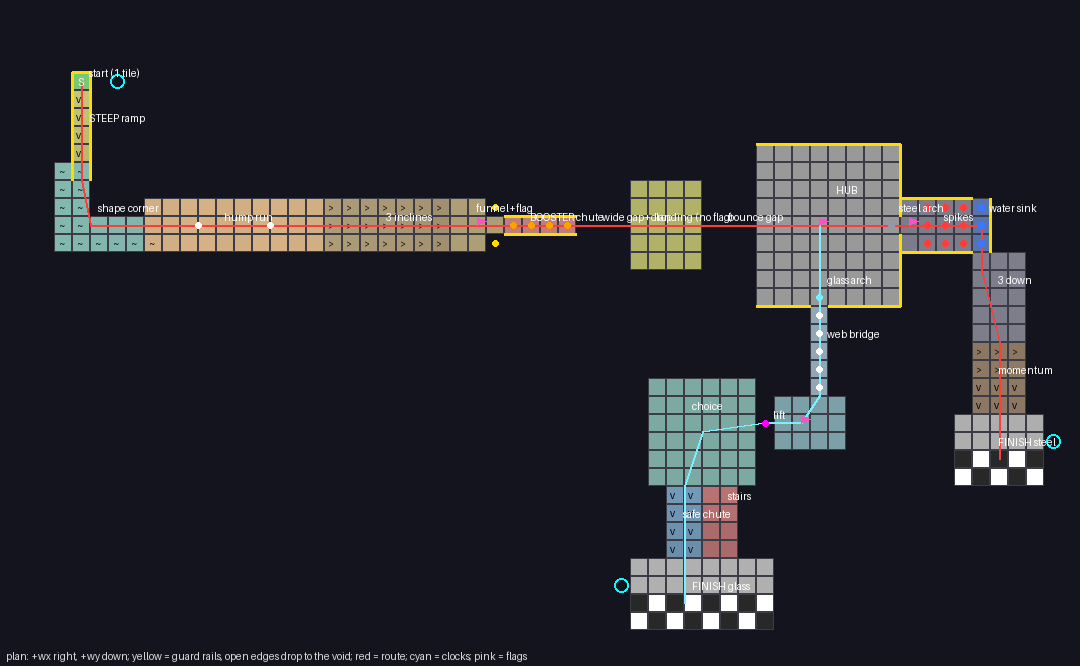
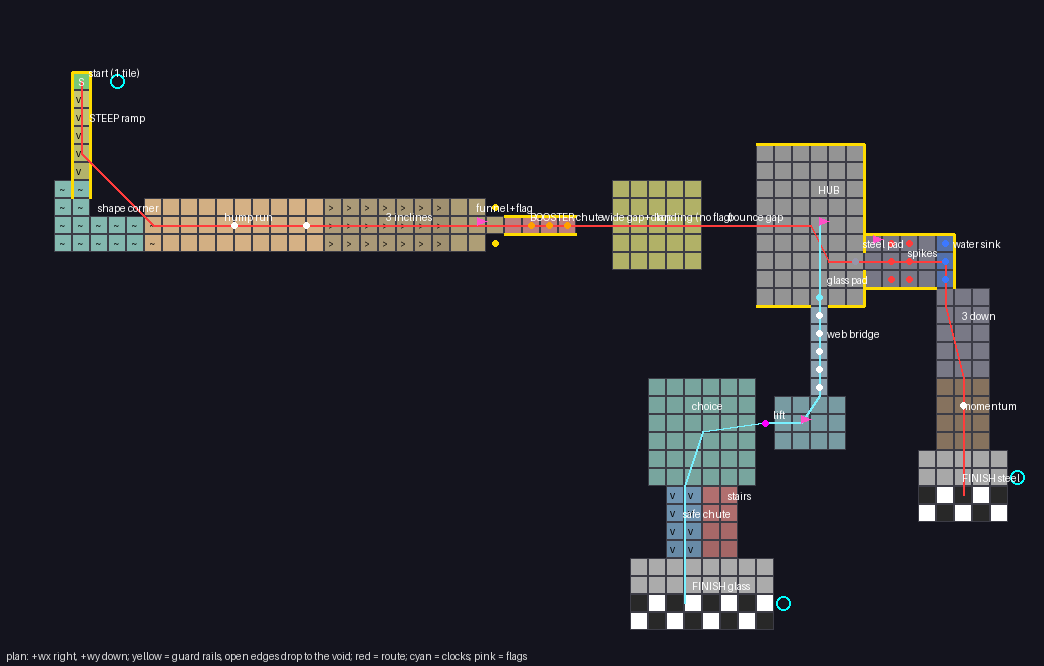
Bonanza DOWN: the autopilot finishes (22 s) - ramp foot, hub and legs 2 units lower, the steel exit off the arrival line with two pads, an 8 px momentum hump, the glass finish's clock in view
Claude-Session: https://claude.ai/code/session_01Wo8a4suEiDfFPFBsnHYKF3

Changed region(s): [[0.0307, 0.0901, 0.9808, 0.961], [0.0, 0.961, 0.4904, 0.991]]

diff --git a/docs/plans/bonanza-courses/down/sketch.py b/docs/plans/bonanza-courses/down/sketch.py
@@ -120,7 +120,8 @@ def mark(x, y, kind, text=""):
 floor("A", 4, 4, 5, 5, Z)                                    # the start: ONE tile, guard rails round it
 rail(4, 4, 5, 4, "guard"); rail(4, 4, 4, 5); rail(5, 4, 5, 5)        # (the sides block rails: a guard may not touch the ramp)
 ramp("R", "y", 4, 5, 5, 10, Z, Z - 10)                       # a STEEP ramp, 2 units a tile (the most), railed
-rail(4, 5, 4, 10); rail(5, 5, 5, 10)
+floor("R", 4, 10, 5, 11, Z - 10)                             # its foot, flat, into the corner chute
+rail(4, 5, 4, 11); rail(5, 5, 5, 11)
 chute("C", [(4, 11, Z - 10), (4, 13, Z - 10), (8, 13, Z - 11)], 1.0)   # the CORNER: a banked shape turns it +x
 floor("H", 8, 11, 18, 14, Z - 11)                            # the HUMP RUN, now 3 wide (rev 2), unguarded, along +x
 for hx in (12, 16):                                          # two humps, 2 long x 3 wide (clear of the corner)
@@ -141,41 +142,41 @@ for x in range(29, 32):
 floor("L", 34, 10, 39, 15, Z - 23)                           # a WIDE GAP (x 32 - 33) and a DROP onto L: easy,
                                                              # unguarded, NO FLAG (a respawn there could never
                                                              # cross on); rubber BOUNCES on over a second gap
-floor("X", 42, 8, 48, 17, Z - 24)                            # the HUB, large and safe (x 39 - 41 the gap; 6 wide: the width)
-rail(42, 8, 48, 8); rail(48, 8, 48, 12); rail(48, 13, 48, 17); rail(42, 17, 45, 17); rail(46, 17, 48, 17)
+floor("X", 42, 8, 48, 17, Z - 26)                            # the HUB, large and safe (x 39 - 41 the gap; 6 wide: the width)
+rail(42, 8, 48, 8); rail(48, 8, 48, 14); rail(48, 15, 48, 17); rail(42, 17, 45, 17); rail(46, 17, 48, 17)
 # 2. THE SPLIT: two exits out of the hub - EAST a STEEL pad, SOUTH a GLASS pad (rev 2: swapped, so the glass
 #    leg's lift climbs up the screen in view; rev 3: no archways - a rubber ball that hops a pad dies on the
 #    spikes or the membrane, which introduces both)
-mark(47.5, 12.5, "steel", "steel pad")
+mark(47.5, 14.5, "steel", "steel pad")
 mark(45.5, 16.5, "glass", "glass pad")
 # 3a. STEEL (east, +x): SPIKES on the only path, a WATER SINK, MOMENTUM, the finish
-floor("S", 48, 11, 52, 14, Z - 24)
-for y in range(11, 14):
+floor("S", 48, 13, 52, 16, Z - 26)
+for y in range(13, 16):
     for x in range(49, 51):
         mark(x + 0.5, y + 0.5, "spike", "")
-rail(48, 11, 53, 11); rail(48, 14, 52, 14)                     # (the north rail seals the water too)
-floor("W", 52, 11, 53, 14, Z - 24)                           # the WATER column (3 units deep) across the path
-for y in range(11, 14):
+rail(48, 13, 53, 13); rail(48, 16, 52, 16)                     # (the north rail seals the water too)
+floor("W", 52, 13, 53, 16, Z - 26)                           # the WATER column (3 units deep) across the path
+for y in range(13, 16):
     mark(52.5, y + 0.5, "water", "")
-rail(53, 11, 53, 14)                                         # a rail ON TOP past it: no Hop over the water
-floor("T", 52, 14, 55, 19, Z - 27)                           # steel sinks and rolls out of the front (+y) ARCH, 3 down
-floor("M", 52, 19, 55, 23, Z - 27)                           # MOMENTUM: a HUMP across the path (EXTRA), which steel
-mark(53.5, 20.5, "hump", "hump")                             #   crests with its speed (two ramps stacked too many records)
-floor("G", 51, 23, 56, 27, Z - 27)                           # FINISH 1, steel (exit 0)
+rail(53, 13, 53, 16)                                         # a rail ON TOP past it: no Hop over the water
+floor("T", 52, 16, 55, 21, Z - 29)                           # steel sinks and rolls out of the front (+y) ARCH, 3 down
+floor("M", 52, 21, 55, 25, Z - 29)                           # MOMENTUM: a HUMP across the path (EXTRA), which steel
+mark(53.5, 22.5, "hump", "hump")                             #   crests with its speed (two ramps stacked too many records)
+floor("G", 51, 25, 56, 29, Z - 29)                           # FINISH 1, steel (exit 0)
 # 3b. GLASS (south, +y): a WEB BRIDGE, a LIFT climbing up the screen, then the CHOICE down the screen
-floor("K", 45, 17, 46, 22, Z - 24)                           # the WEB BRIDGE: 1 wide, a glass-only MEMBRANE over the void
+floor("K", 45, 17, 46, 22, Z - 26)                           # the WEB BRIDGE: 1 wide, a glass-only MEMBRANE over the void
 for y in range(17, 22):
     mark(45.5, y + 0.5, "crack", "")
-floor("P", 43, 22, 47, 25, Z - 24)                           # the bridge's landing
+floor("P", 43, 22, 47, 25, Z - 26)                           # the bridge's landing
 mark(42.5, 23.5, "lift", "LIFT up 4")                        # the LIFT, on P's west edge: it rises in FRONT of Q
-floor("Q", 36, 21, 42, 27, Z - 20)                           # the CHOICE plateau, behind the lift (its face in view)
-ramp("Y", "y", 37, 27, 39, 31, Z - 20, Z - 26)               # (left) a SAFE CHUTE down (a ramp sketched; a shape)
-floor("Z", 39, 27, 41, 28, Z - 21)                           # (right) STAIRS: two safe 1-unit steps, then ONE
-floor("Z", 39, 28, 41, 29, Z - 22)                           #   3-unit step in the middle (glass SHATTERS from 3),
-floor("Z", 39, 29, 41, 30, Z - 25)                           #   then one more onto the finish, flush
-floor("Z", 39, 30, 41, 31, Z - 26)
-floor("V", 35, 31, 43, 35, Z - 26)                           # FINISH 2, glass (exit 1)
-GOAL = {(x, y) for x in range(51, 56) for y in range(25, 27)} | {(x, y) for x in range(35, 43) for y in range(33, 35)}
+floor("Q", 36, 21, 42, 27, Z - 22)                           # the CHOICE plateau, behind the lift (its face in view)
+ramp("Y", "y", 37, 27, 39, 31, Z - 22, Z - 28)               # (left) a SAFE CHUTE down (a ramp sketched; a shape)
+floor("Z", 39, 27, 41, 28, Z - 23)                           # (right) STAIRS: two safe 1-unit steps, then ONE
+floor("Z", 39, 28, 41, 29, Z - 24)                           #   3-unit step in the middle (glass SHATTERS from 3),
+floor("Z", 39, 29, 41, 30, Z - 27)                           #   then one more onto the finish, flush
+floor("Z", 39, 30, 41, 31, Z - 28)
+floor("V", 35, 31, 43, 35, Z - 28)                           # FINISH 2, glass (exit 1)
+GOAL = {(x, y) for x in range(51, 56) for y in range(27, 29)} | {(x, y) for x in range(35, 43) for y in range(33, 35)}
 
 # the PROPS the sketch does not model, as the engine's statements (world cells: sketch + OFF)
 def _w(x):
@@ -192,36 +193,37 @@ EXTRA = [
     "# the BOOSTER chute's pads (SPEC.md 130.40)",
 ] + ["prop boost %d %d face +x strength 40" % (_w(x), _w(12)) for x in range(29, 32)] + [   # (three: the first tile's block hid a fourth)
     "# the split: a pad at each exit (no archways: a rubber ball that hops one dies on what follows)",
-    "pad steel %d %d" % (_w(47), _w(12)),
+    "pad steel %d %d" % (_w(47), _w(14)),        # (TWO in a row: rubber's little hops after the landings
+    "pad steel %d %d" % (_w(48), _w(14)),        #  skipped one and popped on the spikes)        # (off the arrival line: a bouncing ball settles first)
     "pad glass %d %d" % (_w(45), _w(16)),
     "# steel: SPIKES across the only path (SPEC.md 130.38), a WATER column 3 deep, out of its front ARCH",
-    "prop spikes %d %d %d %d" % (_w(49), _w(11), _w(51), _w(14)),      # (two rows: a spiked cell never touches water)
-    "water rect %d %d %d %d top %g bed %g" % (_w(52), _w(11), _w(53), _w(14), Z - 24, Z - 27),
-    "arch %d %d +y" % (_w(52), _w(13)),
+    "prop spikes %d %d %d %d" % (_w(49), _w(13), _w(51), _w(16)),      # (two rows: a spiked cell never touches water)
+    "water rect %d %d %d %d top %g bed %g" % (_w(52), _w(13), _w(53), _w(16), Z - 26, Z - 29),
+    "arch %d %d +y" % (_w(52), _w(15)),
     "# glass: the MEMBRANE bridge, thin (glass-only, SPEC.md 130.38), and the LIFT (SPEC.md 130.12.6.4)",
     "prop membrane %d %d %d %d" % (_w(45), _w(17), _w(46), _w(22)),
     "prop platform %d %d 4" % (_w(42), _w(23)),
-    "# steel's MOMENTUM: a ridge hump across its 3-wide path, the tallest a hump may be (11 px)",
-    "hump %d %d %g along x 3 open height 11" % (_w(52), _w(21), Z - 27),
+    "# steel's MOMENTUM: a ridge hump across its 3-wide path, 8 px (11 stopped the slow steel ball)",
+    "hump %d %d %g along x 3 open height 8" % (_w(52), _w(23), Z - 29),
 ]
-GOAL_RECTS = [(51, 25, 56, 27, Z - 27, 0, "steel"), (35, 33, 43, 35, Z - 26, 1, "glass")]
+GOAL_RECTS = [(51, 27, 56, 29, Z - 29, 0, "steel"), (35, 33, 43, 35, Z - 28, 1, "glass")]
 
 START = (4.5, 4.5)
-FLAGS = [(26.5, 12.5, "flag 0", "rubber"), (45.5, 12.5, "flag 1", "rubber"), (48.5, 12.5, "flag 2", "steel"),
+FLAGS = [(26.5, 12.5, "flag 0", "rubber"), (45.5, 12.5, "flag 1", "rubber"), (48.5, 13.5, "flag 2", "steel"),
          (44.5, 23.5, "flag 3", "glass")]
-CLOCKS = [(6.5, 4.5, Z, "start", "block"), (56.5, 24.5, Z - 25.5, "steel finish", "block"),
-          (34.5, 32.5, Z - 24.5, "glass finish", "block")]
+CLOCKS = [(6.5, 4.5, Z, "start", "block"), (56.5, 26.5, Z - 27.5, "steel finish", "block"),
+          (43.5, 33.5, Z - 26.5, "glass finish", "block")]
 FRAMES = {}
 PLACED = {}
 SIGNS = []
-ROUTE = [(4.5, 4.5), (4.5, 10), (5, 12.5), (8, 12.5), (18, 12.5), (25, 12.5), (28, 12.5), (32, 12.5), (37, 12.5),
-         (45, 12.5), (48, 12.5), (52.5, 12.5), (52.5, 15), (53.5, 19), (53.5, 23), (53.5, 25.5)]
+ROUTE = [(4.5, 4.5), (4.5, 8.5), (8.5, 12.5), (18, 12.5), (25, 12.5), (28, 12.5), (32, 12.5), (37, 12.5),
+         (45, 12.5), (46, 14.5), (48, 14.5), (52.5, 14.5), (52.5, 17), (53.5, 21), (53.5, 25), (53.5, 27.5)]
 ROUTE2 = [(45.5, 12.5), (45.5, 17), (45.5, 22), (44.5, 23.5), (42.5, 23.5), (39, 24), (38, 27), (38, 31), (38, 33.5)]
 LABELS = [(4.5, 4.5, "start (1 tile)"), (4.5, 7, "STEEP ramp"), (5, 12, "shape corner"), (12, 12.5, "hump run"),
           (21, 12.5, "3 inclines"), (26, 12, "funnel+flag"), (29, 12.5, "BOOSTER chute"), (33, 12.5, "wide gap+drop"),
-          (36, 12.5, "landing (no flag)"), (40, 12.5, "bounce gap"), (45, 11, "HUB"), (47.5, 12, "steel pad"),
-          (50, 12.5, "spikes"), (52.5, 12, "water sink"), (53, 16, "3 down"), (53, 21, "momentum"),
-          (53, 25, "FINISH steel"), (45.5, 16, "glass pad"), (45.5, 19, "web bridge"), (42.5, 23.5, "lift"),
+          (36, 12.5, "landing (no flag)"), (40, 12.5, "bounce gap"), (45, 11, "HUB"), (47.5, 14, "steel pad"),
+          (50, 14.5, "spikes"), (52.5, 14, "water sink"), (53, 18, "3 down"), (53, 23, "momentum"),
+          (53, 27, "FINISH steel"), (45.5, 16, "glass pad"), (45.5, 19, "web bridge"), (42.5, 23.5, "lift"),
           (38, 23, "choice"), (37.5, 29, "safe chute"), (40, 28, "stairs"), (38, 33, "FINISH glass")]
 
 # --- drawing ----------------------------------------------------------------
@@ -300,7 +302,7 @@ def iso(out):
     def Q(wx, wy, z):
         x, y = P(wx, wy, z)
         return x - minx, y - miny
-    ground = Z - 30 - 3
+    ground = Z - 32 - 3
     items = [((x, y), c, False) for (x, y), c in CELLS.items()]
     for x0, y0, x1, y1, z in WALLS:
         for x in range(x0, x1):
